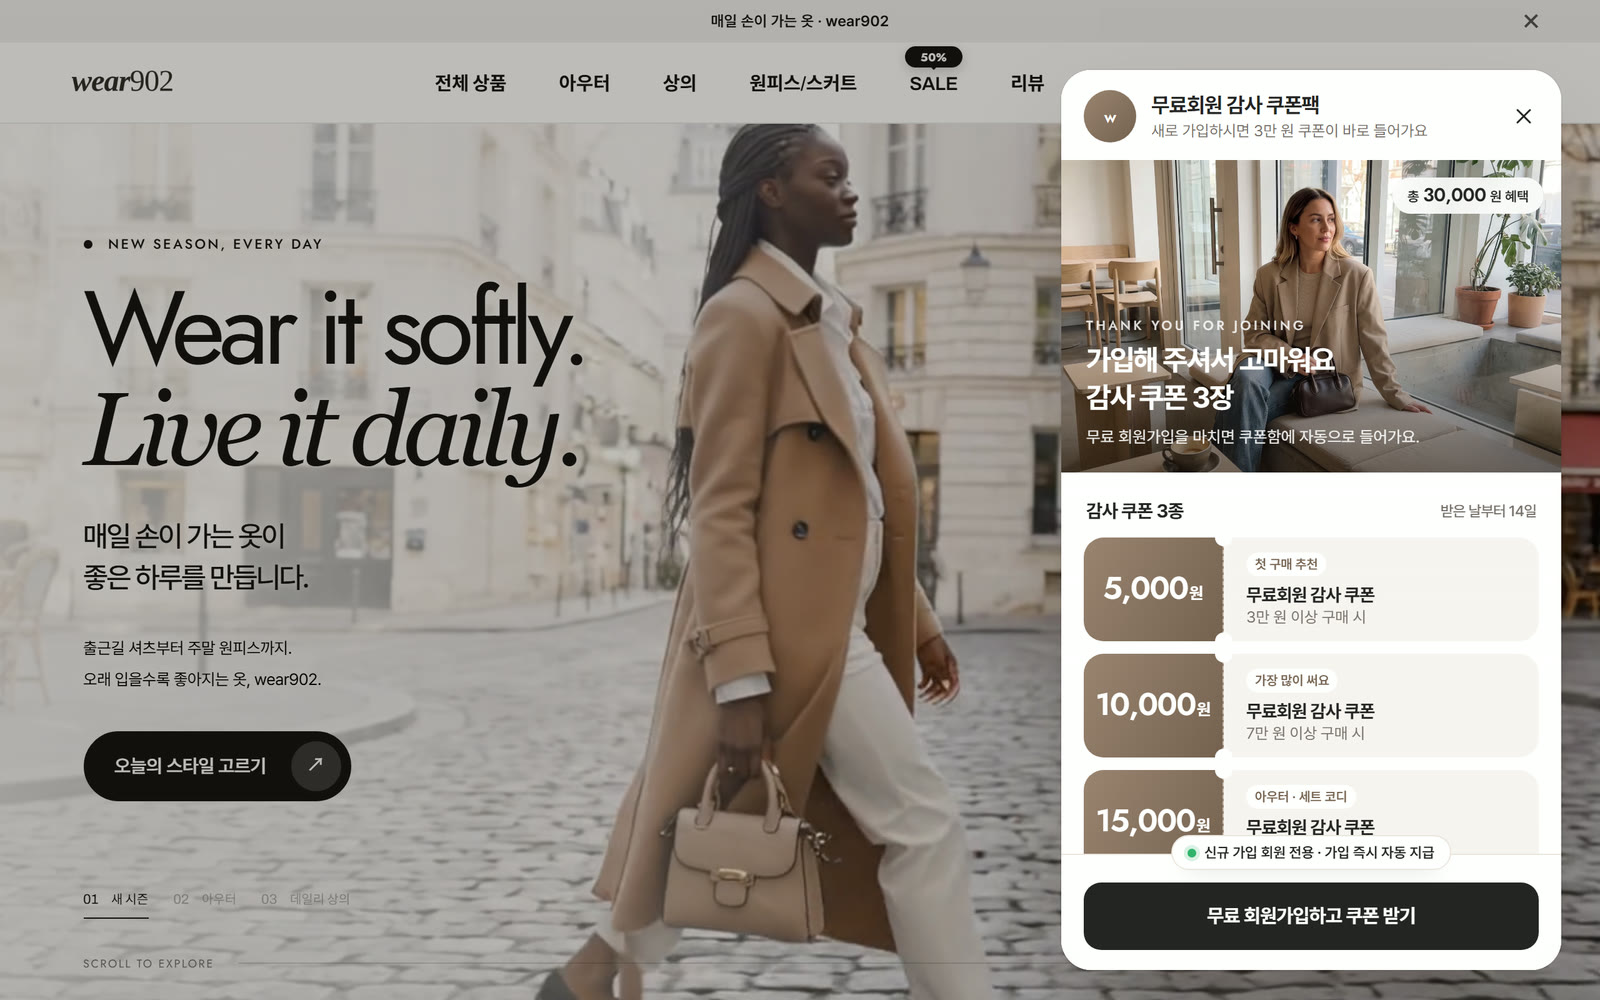
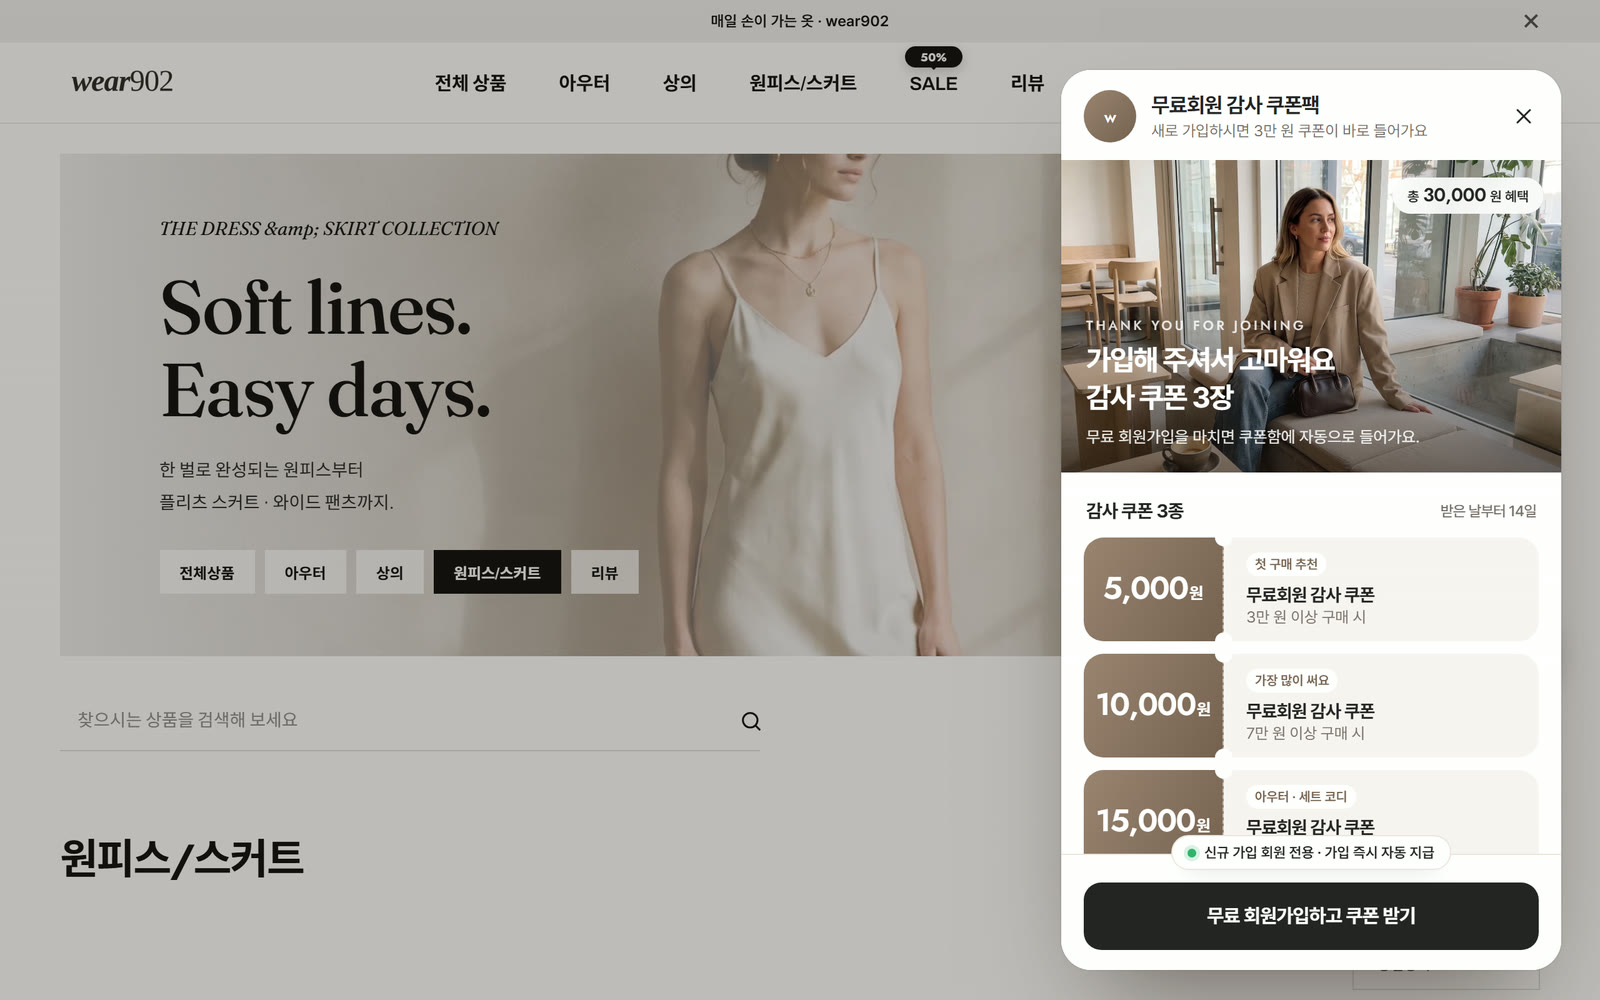
상세 v3 : 첫 화면(트렌치 모델)이 되풀이되지 않게 — 휴대폰은 상의 목록, 웰컴 쿠폰팩은 원피스/스커트 목록 위에서, 타임세일 휴대폰 상세(같은 원피스 3번째) 뺌

diff --git a/docs/tools/designcenter/detail-v3.js b/docs/tools/designcenter/detail-v3.js
@@ -21,7 +21,7 @@ const CROPS = {
   'welcome-pc': { w: 1600 }, 'welcome-page': { w: 600 },
   'coupon-pick': { w: 1600, crop: [0, 0, 1280, 1000] }, 'coupon-pick-mobile': { w: 600 },
   'countdown-sale': { w: 1600, crop: [0, 0, 1280, 560] }, 'countdown-pop': { w: 600, crop: [30, 30, 400, 632] },
-  'timesale-card': { w: 1600, crop: [90, 0, 1150, 400] }, 'timesale-detail': { w: 1600, crop: [0, 0, 1280, 520] }, 'timesale-detail-mobile': { w: 600 },
+  'timesale-card': { w: 1600, crop: [90, 0, 1150, 400] }, 'timesale-detail': { w: 1600, crop: [0, 0, 1280, 520] },
   'revisit': { w: 600 },
   'looks': { w: 1600, crop: [0, 110, 1280, 650] }, 'looks-qv': { w: 1600, crop: [0, 110, 1280, 650] },
   'chat': { w: 600 }, 'chat-pc': { w: 1600 },
@@ -128,7 +128,7 @@ function page(kmong, src) {
     tip: '오픈 기념 세일은 <b>3일</b>처럼 짧게 잡으세요. 기간이 짧을수록 타이머의 힘이 커져요.' }));
 
   out.push(feature({ no: '04', tag: '한정 할인', title: '타임세일', desc: '상품마다 끝나는 시각을 걸면, 상품 목록 사진 위에 “TIME SALE 남은 시간” 띠가, 상세 페이지 맨 위에는 카운트다운 배너가 붙어요.',
-    media: browser('timesale-card', '상품 목록 카드 사진 아래쪽 TIME SALE 남은 시간 띠') + cap('상품 목록 : 사진 위 TIME SALE 띠 · 할인율') + S('height:22px;', '') + row([{ basis: 480, html: browser('timesale-detail', '상품 상세 페이지 맨 위 타임세일 종료까지 배너') + cap('상세 페이지 : 타임세일 종료까지') }, { basis: 200, html: phone('timesale-detail-mobile', '휴대폰 상품 상세 타임세일 배너') + cap('휴대폰에서도 그대로') }], 24),
+    media: browser('timesale-card', '상품 목록 카드 사진 아래쪽 TIME SALE 남은 시간 띠') + cap('상품 목록 : 사진 위 TIME SALE 띠 · 할인율') + S('height:22px;', '') + browser('timesale-detail', '상품 상세 페이지 맨 위 타임세일 종료까지 배너') + cap('상세 페이지 : 맨 위에 타임세일 종료까지 남은 시간'),
     steps: ['상품 수정 › 상품 요약설명에 ' + code('#타임세일 2026-10-31 23:59') + ' 한 줄을 적어요.', '할인 금액은 카페24 상품 할인 설정을 그대로 써요.', '시간이 끝나면 띠와 배너가 저절로 사라져요.'],
     effects: ['목록에서 눈에 띄어 그 상품의 클릭이 늘어요.', '재고 정리 · 신상품 첫 주 판매에 딱 맞아요.', '배너 · 띠 색은 쇼핑몰 톤에 맞춰 바꿀 수 있어요.'],
     tip: '“매주 금요일 저녁 6시 ~ 일요일 자정”처럼 시간을 정해 두면 단골이 그 시간을 기다려요.' }, C.soft));

diff --git a/docs/tools/designcenter/feature-shots.js b/docs/tools/designcenter/feature-shots.js
@@ -82,11 +82,12 @@ function demoSheet() {
 const shots = {
   /* 첫 화면 (PC · 휴대폰) */
   'home-pc': async pg => { await open(pg, '/', PC); },
-  'home-mobile': async pg => { await open(pg, '/', MOBILE); },
+  // 휴대폰은 첫 화면 · 팝업과 다른 장면 (같은 트렌치 모델이 되풀이되지 않게) : 상의 목록
+  'home-mobile': async pg => { await open(pg, '/product/list.html?cate_no=25', MOBILE); },
 
   /* 1. 무료회원 웰컴 쿠폰팩 : 플로팅 쿠폰 버튼 → 작은 창 */
   'welcome-pc': async pg => {
-    await open(pg, '/', PC);
+    await open(pg, '/product/list.html?cate_no=26', PC);   // 첫 화면이 아닌 원피스/스커트 목록 위에서 연다
     await click(pg, '.s9-float__btn--wp'); await sleep(3500);
   },
   'welcome-page': async pg => { await open(pg, '/wear/welcome.html?pop=1', MOBILE); return { full: true }; },
